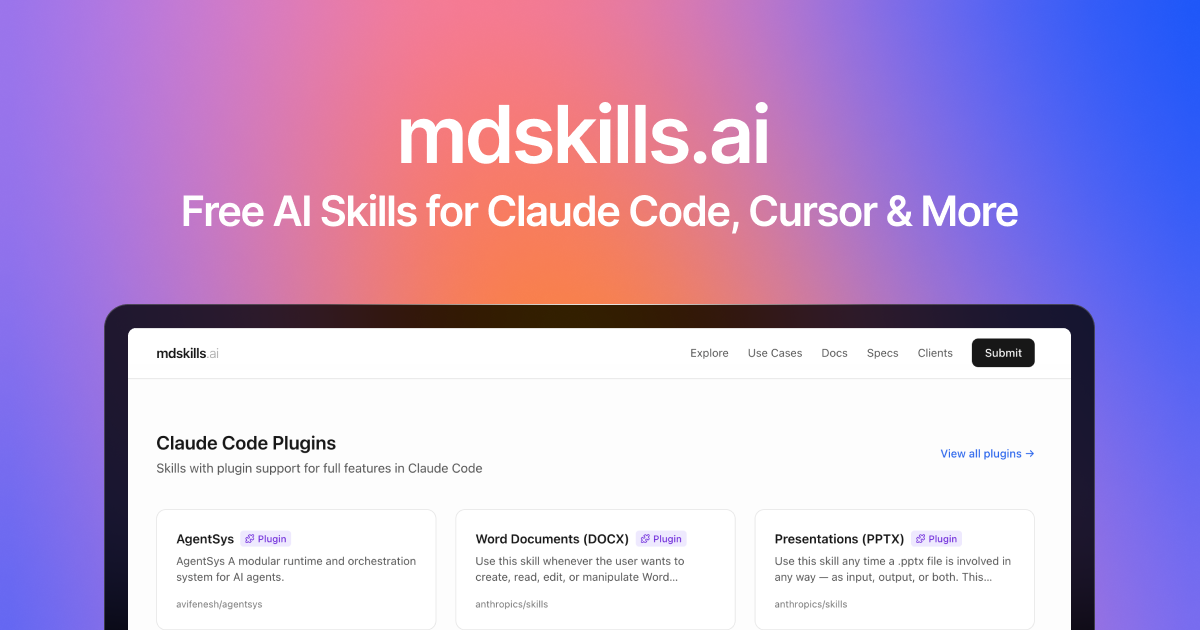
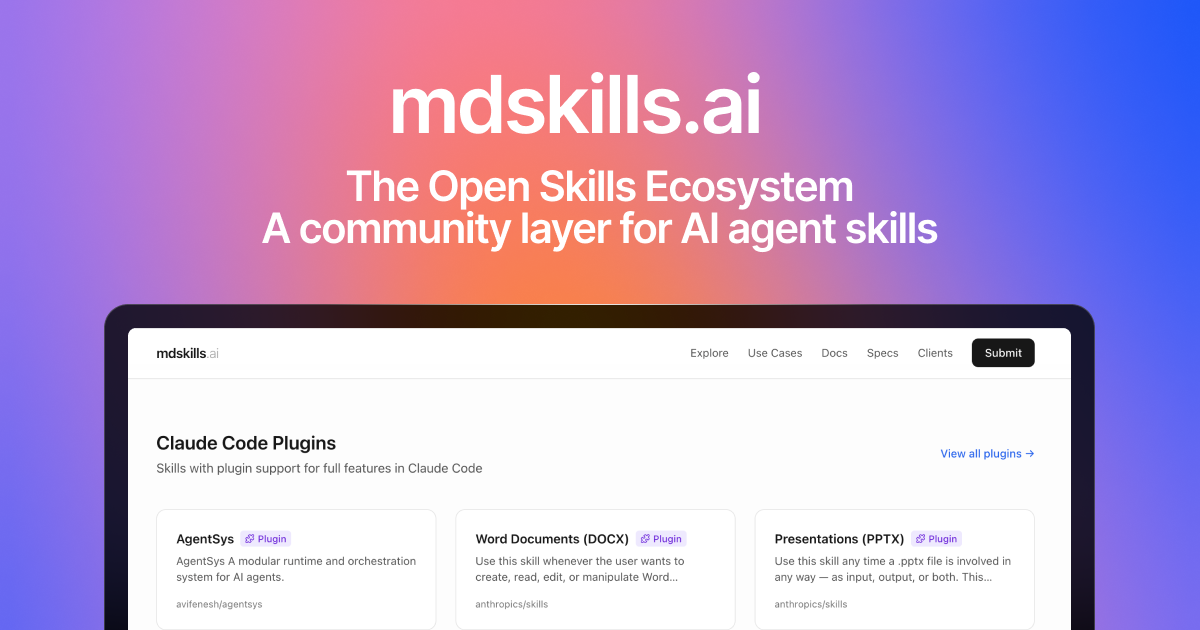
Update OG image and add creator attribution to footer
- Replace OG image with updated subtitle text
- Add "Created by Rob Gourley" with link to robertcreative.com in footer

Changed region(s): [[0.1542, 0.1206, 0.8633, 0.4222]]

diff --git a/src/components/Footer.tsx b/src/components/Footer.tsx
@@ -72,7 +72,7 @@ export function Footer() {
           </div>
         </div>
         <p className="mt-8 pt-6 border-t border-neutral-200 text-sm text-neutral-500 text-center sm:text-left">
-          The community layer for AI agent skills. Find, create, fork, and share.
+          The community layer for AI agent skills. Find, create, fork, and share. Created by <a href="https://www.robertcreative.com/" target="_blank" rel="noopener noreferrer" className="hover:text-neutral-900 transition-colors">Rob Gourley</a>.
         </p>
       </div>
     </footer>
